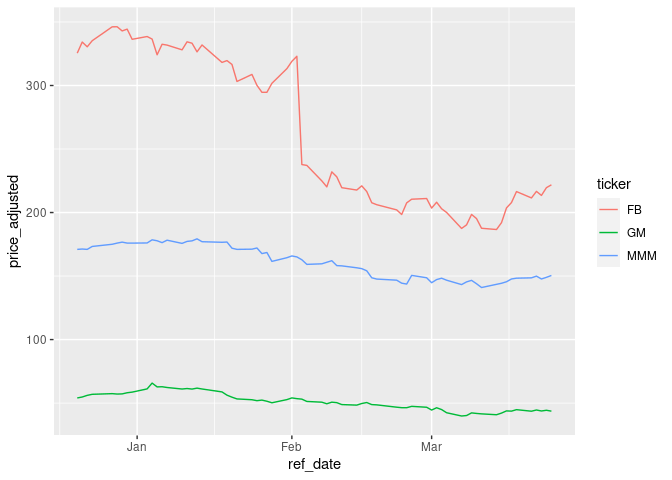
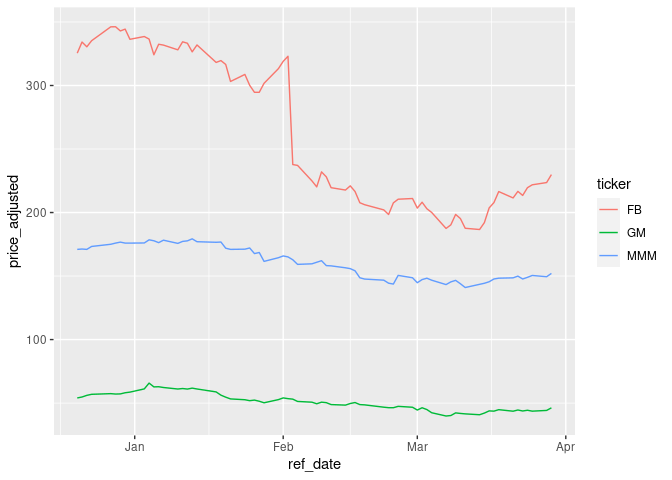
testing build pkgdown

diff --git a/README.md b/README.md
@@ -5,6 +5,8 @@
 [![Project Status: Active – The project has reached a stable, usable
 state and is being actively
 developed.](https://www.repostatus.org/badges/latest/active.svg)](https://www.repostatus.org/#active)
+[![Codecov test
+coverage](https://codecov.io/gh/msperlin/yfR/branch/main/graph/badge.svg)](https://app.codecov.io/gh/msperlin/yfR?branch=main)
 <!-- badges: end -->
 
 # Motivation
@@ -47,10 +49,11 @@ the process.
 
 ## Differences from [BatchGetSymbols](https://github.com/msperlin/BatchGetSymbols)
 
-Package `BatchgetSymbols` was developed in 2016, with bad choices from
-my part. As I learned more about R, my code became better and easier to
-maintain. However, it is impossible to keep compatibility with the
-changes I wanted to make, which is why I created a new package.
+Package `BatchgetSymbols` was developed back in 2016, with many bad
+choices from my part. Since then, I learned more about R and its
+ecosystem, resulting in better and more maintainable code. However, it
+is impossible to keep compatibility with the changes I wanted to make,
+which is why I created the new package `yfR`.
 
 Here are the main differences between `yfR` (new) and `BatchGetSymbols`
 (old):
@@ -103,7 +106,6 @@ Here are the main differences between `yfR` (new) and `BatchGetSymbols`
 
 ``` r
 library(yfR)
-#> 
 
 # set options for algorithm
 my_ticker <- 'FB'
@@ -115,20 +117,19 @@ df_yf <- yf_get_data(tickers = my_ticker,
                      first_date = first_date,
                      last_date = last_date)
 #> 
-#> ── Running yfR for 1 stocks | 2022-02-26 --> 2022-03-28 (30 days) ──
+#> ── Running yfR for 1 stocks | 2022-02-28 --> 2022-03-30 (30 days) ──
 #> 
 #> ℹ Downloading data for benchmark ticker ^GSPC
 #> ℹ (1/1) Fetching data for FB
 #> !    - not cached
 #> ✓    - cache saved successfully
-#> ✓    - got 20 valid rows (2022-02-28 --> 2022-03-25)
-#> ✓    - got 100% of valid prices -- You got it msperlin!
+#> ✓    - got 22 valid rows (2022-02-28 --> 2022-03-29)
+#> ✓    - got 100% of valid prices -- Nice!
 #> ℹ Binding price data
 
 # output is a tibble with data
 head(df_yf)
 #> # A tibble: 6 × 10
-#> # Groups:   ref_date, ticker [6]
 #>   ticker ref_date   price_open price_high price_low price_close   volume
 #>   <chr>  <date>          <dbl>      <dbl>     <dbl>       <dbl>    <dbl>
 #> 1 FB     2022-02-28       208.       213.      207.        211. 34239800
@@ -155,24 +156,24 @@ df_yf_multiple <- yf_get_data(tickers = my_ticker,
                      first_date = first_date,
                      last_date = last_date)
 #> 
-#> ── Running yfR for 3 stocks | 2021-12-18 --> 2022-03-28 (100 days) ──
+#> ── Running yfR for 3 stocks | 2021-12-20 --> 2022-03-30 (100 days) ──
 #> 
 #> ℹ Downloading data for benchmark ticker ^GSPC
 #> ℹ (1/3) Fetching data for FB
-#> ✓    - found cache file (2022-02-28 --> 2022-03-25)
+#> ✓    - found cache file (2022-02-28 --> 2022-03-29)
 #> !    - need new data (cache doesnt match query)
-#> ✓    - got 67 valid rows (2021-12-20 --> 2022-03-25)
-#> ✓    - got 100% of valid prices -- Got it!
+#> ✓    - got 69 valid rows (2021-12-20 --> 2022-03-29)
+#> ✓    - got 100% of valid prices -- Looking good!
 #> ℹ (2/3) Fetching data for GM
 #> !    - not cached
 #> ✓    - cache saved successfully
-#> ✓    - got 67 valid rows (2021-12-20 --> 2022-03-25)
-#> ✓    - got 100% of valid prices -- Good job msperlin!
+#> ✓    - got 69 valid rows (2021-12-20 --> 2022-03-29)
+#> ✓    - got 100% of valid prices -- You got it msperlin!
 #> ℹ (3/3) Fetching data for MMM
 #> !    - not cached
 #> ✓    - cache saved successfully
-#> ✓    - got 67 valid rows (2021-12-20 --> 2022-03-25)
-#> ✓    - got 100% of valid prices -- Looking good!
+#> ✓    - got 69 valid rows (2021-12-20 --> 2022-03-29)
+#> ✓    - got 100% of valid prices -- You got it msperlin!
 #> ℹ Binding price data
 
 
@@ -223,13 +224,13 @@ df_dailly <- yf_get_data(tickers = my_ticker,
                          freq_data = 'daily') |>
   mutate(freq = 'daily')
 #> 
-#> ── Running yfR for 1 stocks | 2010-01-01 --> 2022-03-28 (4469 days) ──
+#> ── Running yfR for 1 stocks | 2010-01-01 --> 2022-03-30 (4471 days) ──
 #> 
 #> ℹ Downloading data for benchmark ticker ^GSPC
 #> ℹ (1/1) Fetching data for GE
 #> !    - not cached
 #> ✓    - cache saved successfully
-#> ✓    - got 3079 valid rows (2010-01-04 --> 2022-03-25)
+#> ✓    - got 3081 valid rows (2010-01-04 --> 2022-03-29)
 #> ✓    - got 100% of valid prices -- Got it!
 #> ℹ Binding price data
   
@@ -239,13 +240,13 @@ df_weekly <- yf_get_data(tickers = my_ticker,
                          freq_data = 'weekly') |>
   mutate(freq = 'weekly')
 #> 
-#> ── Running yfR for 1 stocks | 2010-01-01 --> 2022-03-28 (4469 days) ──
+#> ── Running yfR for 1 stocks | 2010-01-01 --> 2022-03-30 (4471 days) ──
 #> 
 #> ℹ Downloading data for benchmark ticker ^GSPC
 #> ℹ (1/1) Fetching data for GE
-#> ✓    - found cache file (2010-01-04 --> 2022-03-25)
-#> ✓    - got 3079 valid rows (2010-01-04 --> 2022-03-25)
-#> ✓    - got 100% of valid prices -- Time for some tea?
+#> ✓    - found cache file (2010-01-04 --> 2022-03-29)
+#> ✓    - got 3081 valid rows (2010-01-04 --> 2022-03-29)
+#> ✓    - got 100% of valid prices -- Looking good!
 #> ℹ Binding price data
 
 df_monthly <- yf_get_data(tickers = my_ticker, 
@@ -253,13 +254,13 @@ df_monthly <- yf_get_data(tickers = my_ticker,
                          freq_data = 'monthly') |>
   mutate(freq = 'monthly')
 #> 
-#> ── Running yfR for 1 stocks | 2010-01-01 --> 2022-03-28 (4469 days) ──
+#> ── Running yfR for 1 stocks | 2010-01-01 --> 2022-03-30 (4471 days) ──
 #> 
 #> ℹ Downloading data for benchmark ticker ^GSPC
 #> ℹ (1/1) Fetching data for GE
-#> ✓    - found cache file (2010-01-04 --> 2022-03-25)
-#> ✓    - got 3079 valid rows (2010-01-04 --> 2022-03-25)
-#> ✓    - got 100% of valid prices -- Well done msperlin!
+#> ✓    - found cache file (2010-01-04 --> 2022-03-29)
+#> ✓    - got 3081 valid rows (2010-01-04 --> 2022-03-29)
+#> ✓    - got 100% of valid prices -- Good job msperlin!
 #> ℹ Binding price data
 
 df_yearly <- yf_get_data(tickers = my_ticker, 
@@ -267,13 +268,13 @@ df_yearly <- yf_get_data(tickers = my_ticker,
                          freq_data = 'yearly') |>
   mutate(freq = 'yearly')
 #> 
-#> ── Running yfR for 1 stocks | 2010-01-01 --> 2022-03-28 (4469 days) ──
+#> ── Running yfR for 1 stocks | 2010-01-01 --> 2022-03-30 (4471 days) ──
 #> 
 #> ℹ Downloading data for benchmark ticker ^GSPC
 #> ℹ (1/1) Fetching data for GE
-#> ✓    - found cache file (2010-01-04 --> 2022-03-25)
-#> ✓    - got 3079 valid rows (2010-01-04 --> 2022-03-25)
-#> ✓    - got 100% of valid prices -- Good stuff!
+#> ✓    - found cache file (2010-01-04 --> 2022-03-29)
+#> ✓    - got 3081 valid rows (2010-01-04 --> 2022-03-29)
+#> ✓    - got 100% of valid prices -- You got it msperlin!
 #> ℹ Binding price data
 
 df_allfreq <- bind_rows(
@@ -315,131 +316,35 @@ df_yf_multiple <- yf_get_data(tickers = my_ticker,
                      first_date = first_date,
                      last_date = last_date)
 #> 
-#> ── Running yfR for 3 stocks | 2021-12-18 --> 2022-03-28 (100 days) ──
+#> ── Running yfR for 3 stocks | 2021-12-20 --> 2022-03-30 (100 days) ──
 #> 
 #> ℹ Downloading data for benchmark ticker ^GSPC
 #> ℹ (1/3) Fetching data for FB
-#> ✓    - found cache file (2021-12-20 --> 2022-03-25)
-#> ✓    - got 67 valid rows (2021-12-20 --> 2022-03-25)
-#> ✓    - got 100% of valid prices -- Got it!
+#> ✓    - found cache file (2021-12-20 --> 2022-03-29)
+#> ✓    - got 69 valid rows (2021-12-20 --> 2022-03-29)
+#> ✓    - got 100% of valid prices -- All OK!
 #> ℹ (2/3) Fetching data for GM
-#> ✓    - found cache file (2021-12-20 --> 2022-03-25)
-#> ✓    - got 67 valid rows (2021-12-20 --> 2022-03-25)
-#> ✓    - got 100% of valid prices -- Got it!
+#> ✓    - found cache file (2021-12-20 --> 2022-03-29)
+#> ✓    - got 69 valid rows (2021-12-20 --> 2022-03-29)
+#> ✓    - got 100% of valid prices -- Good job msperlin!
 #> ℹ (3/3) Fetching data for MMM
-#> ✓    - found cache file (2021-12-20 --> 2022-03-25)
-#> ✓    - got 67 valid rows (2021-12-20 --> 2022-03-25)
-#> ✓    - got 100% of valid prices -- Well done msperlin!
+#> ✓    - found cache file (2021-12-20 --> 2022-03-29)
+#> ✓    - got 69 valid rows (2021-12-20 --> 2022-03-29)
+#> ✓    - got 100% of valid prices -- Good stuff!
 #> ℹ Binding price data
 
-l_wide <- yf_converto_to_wide(df_yf_multiple)
+l_wide <- yf_convert_to_wide(df_yf_multiple)
 
 prices_wide <- l_wide$price_adjusted
 
-knitr::kable(head(prices_wide)) 
+head(prices_wide)
+#> # A tibble: 6 × 4
+#>   ref_date      FB    GM   MMM
+#>   <date>     <dbl> <dbl> <dbl>
+#> 1 2021-12-20  325.  54.0  171.
+#> 2 2021-12-21  334.  54.8  171.
+#> 3 2021-12-22  330.  56.1  171.
+#> 4 2021-12-23  335.  56.9  173.
+#> 5 2021-12-27  346.  57.4  175.
+#> 6 2021-12-28  346.  57.1  176.
 ```
-
-<table>
-<thead>
-<tr>
-<th style="text-align:left;">
-ref_date
-</th>
-<th style="text-align:right;">
-FB
-</th>
-<th style="text-align:right;">
-GM
-</th>
-<th style="text-align:right;">
-MMM
-</th>
-</tr>
-</thead>
-<tbody>
-<tr>
-<td style="text-align:left;">
-2021-12-20
-</td>
-<td style="text-align:right;">
-325.45
-</td>
-<td style="text-align:right;">
-54.04
-</td>
-<td style="text-align:right;">
-170.9872
-</td>
-</tr>
-<tr>
-<td style="text-align:left;">
-2021-12-21
-</td>
-<td style="text-align:right;">
-334.20
-</td>
-<td style="text-align:right;">
-54.79
-</td>
-<td style="text-align:right;">
-171.2645
-</td>
-</tr>
-<tr>
-<td style="text-align:left;">
-2021-12-22
-</td>
-<td style="text-align:right;">
-330.45
-</td>
-<td style="text-align:right;">
-56.08
-</td>
-<td style="text-align:right;">
-170.9872
-</td>
-</tr>
-<tr>
-<td style="text-align:left;">
-2021-12-23
-</td>
-<td style="text-align:right;">
-335.24
-</td>
-<td style="text-align:right;">
-56.91
-</td>
-<td style="text-align:right;">
-173.2948
-</td>
-</tr>
-<tr>
-<td style="text-align:left;">
-2021-12-27
-</td>
-<td style="text-align:right;">
-346.18
-</td>
-<td style="text-align:right;">
-57.43
-</td>
-<td style="text-align:right;">
-175.0083
-</td>
-</tr>
-<tr>
-<td style="text-align:left;">
-2021-12-28
-</td>
-<td style="text-align:right;">
-346.22
-</td>
-<td style="text-align:right;">
-57.11
-</td>
-<td style="text-align:right;">
-175.9393
-</td>
-</tr>
-</tbody>
-</table>
